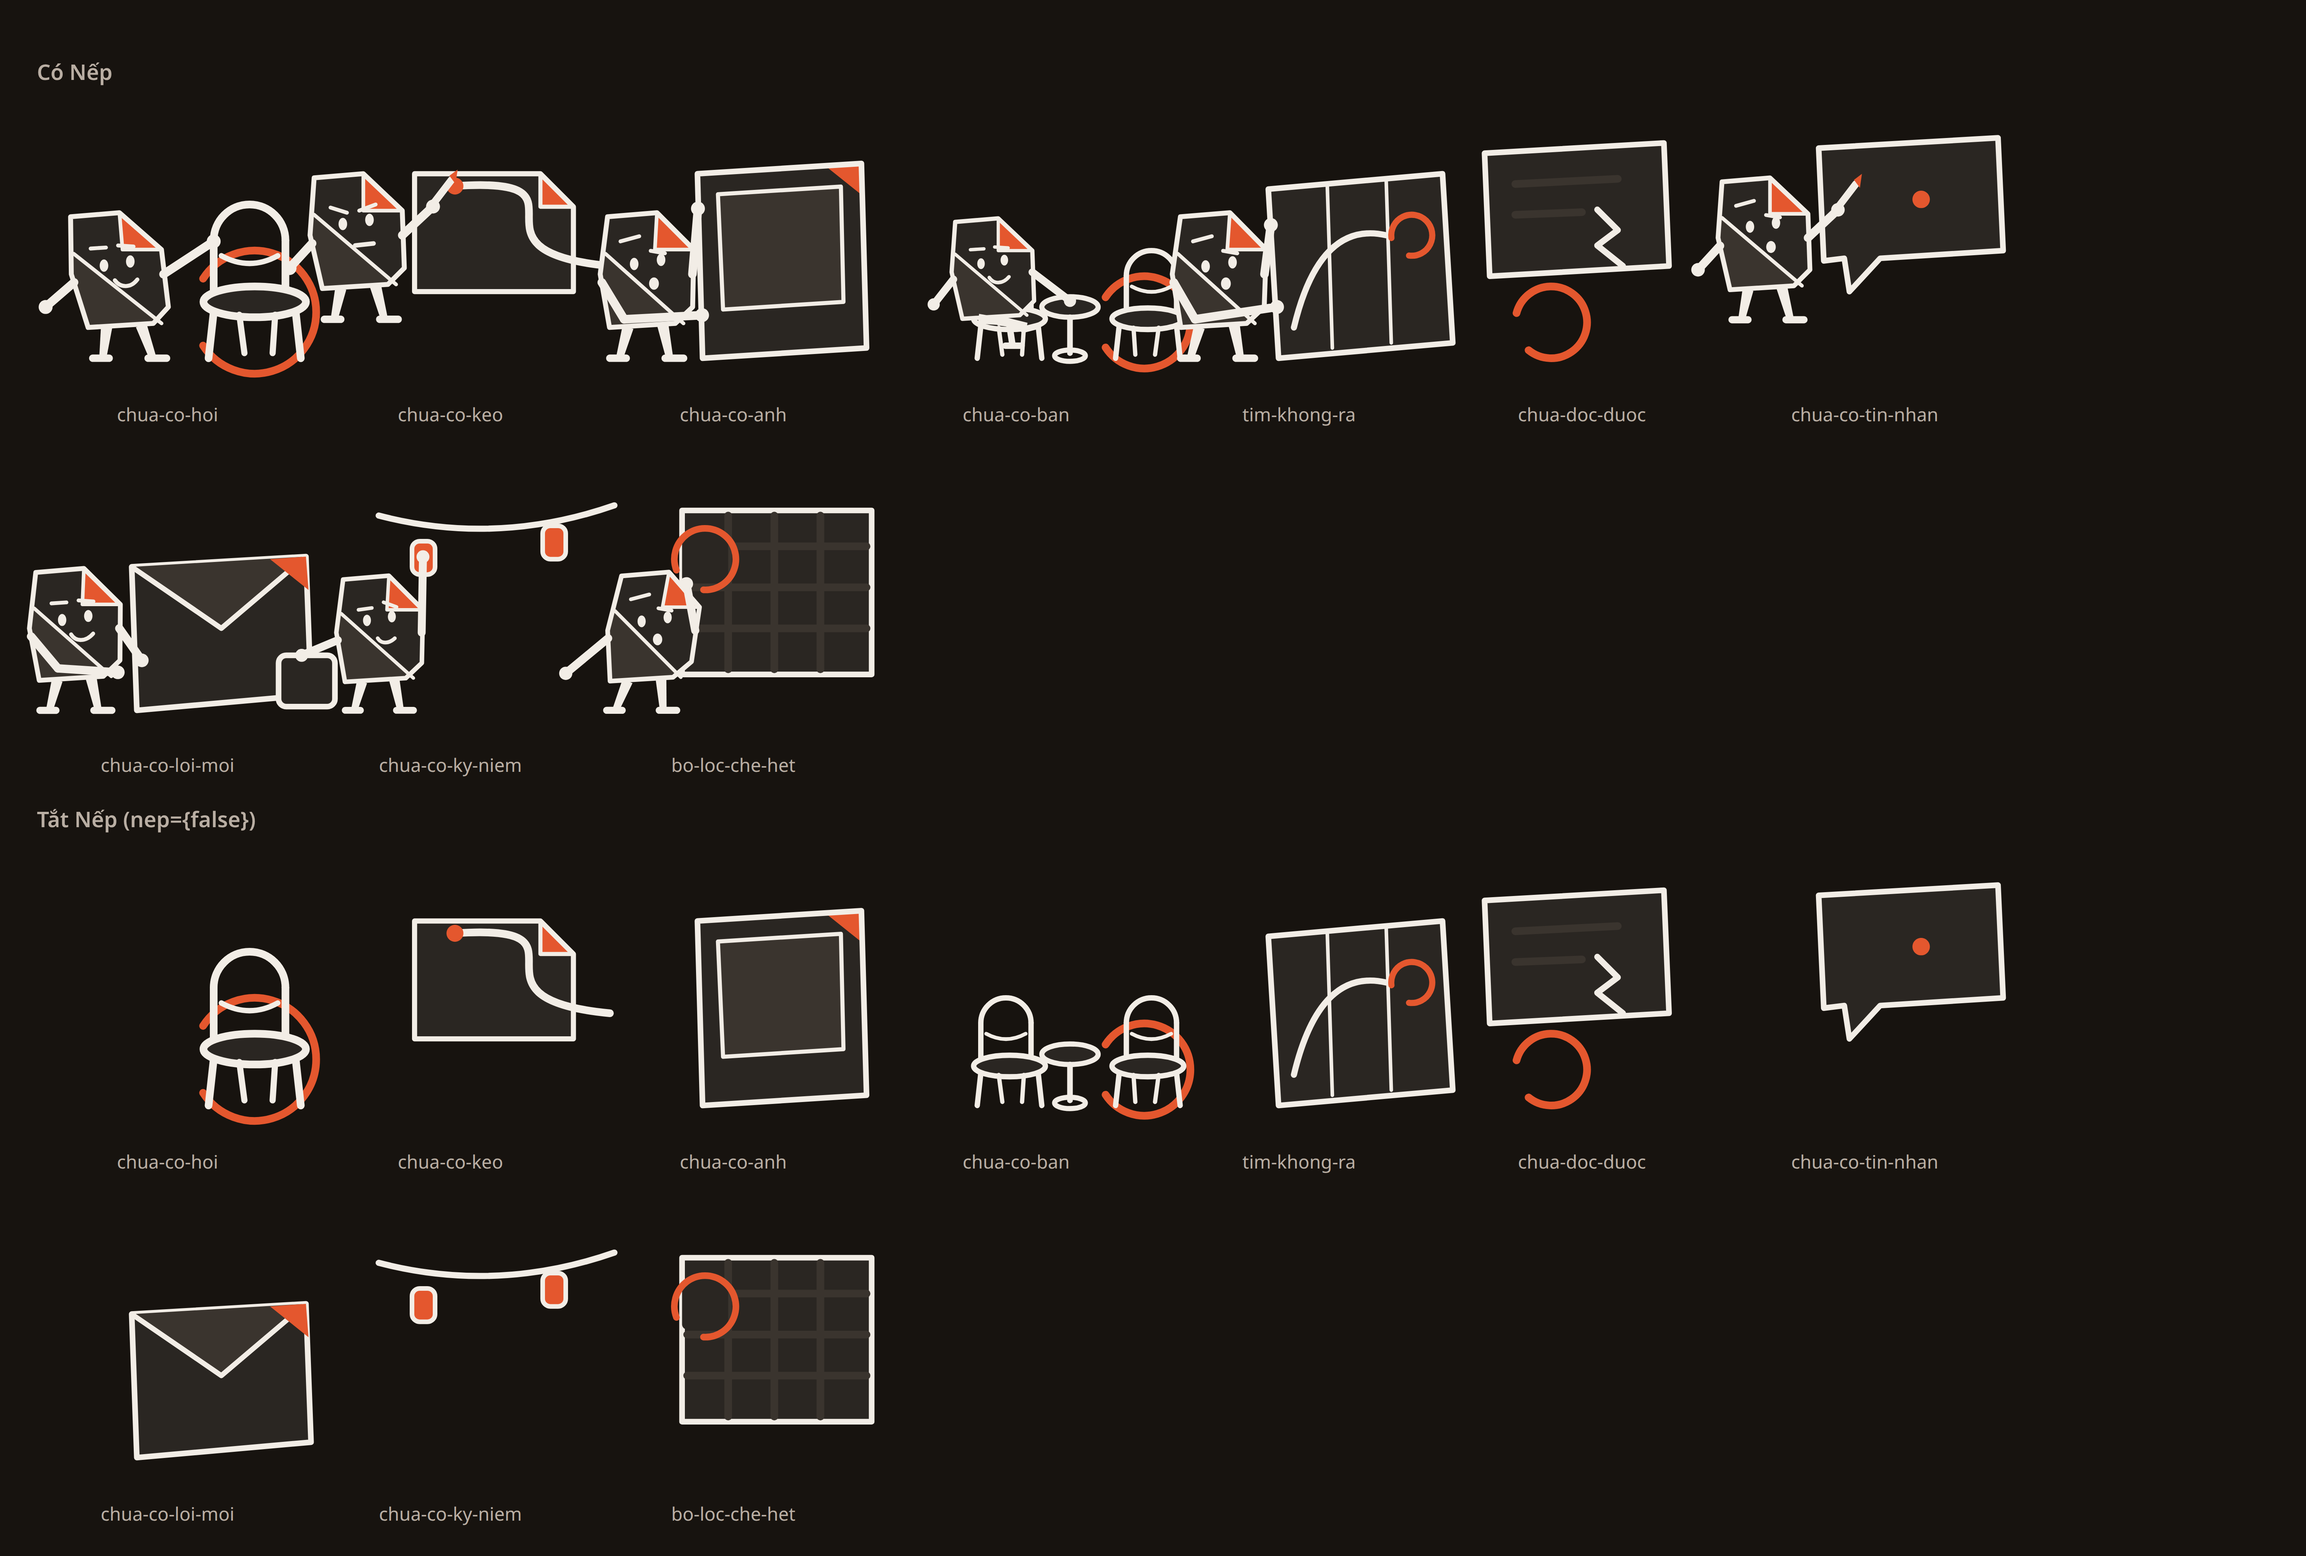
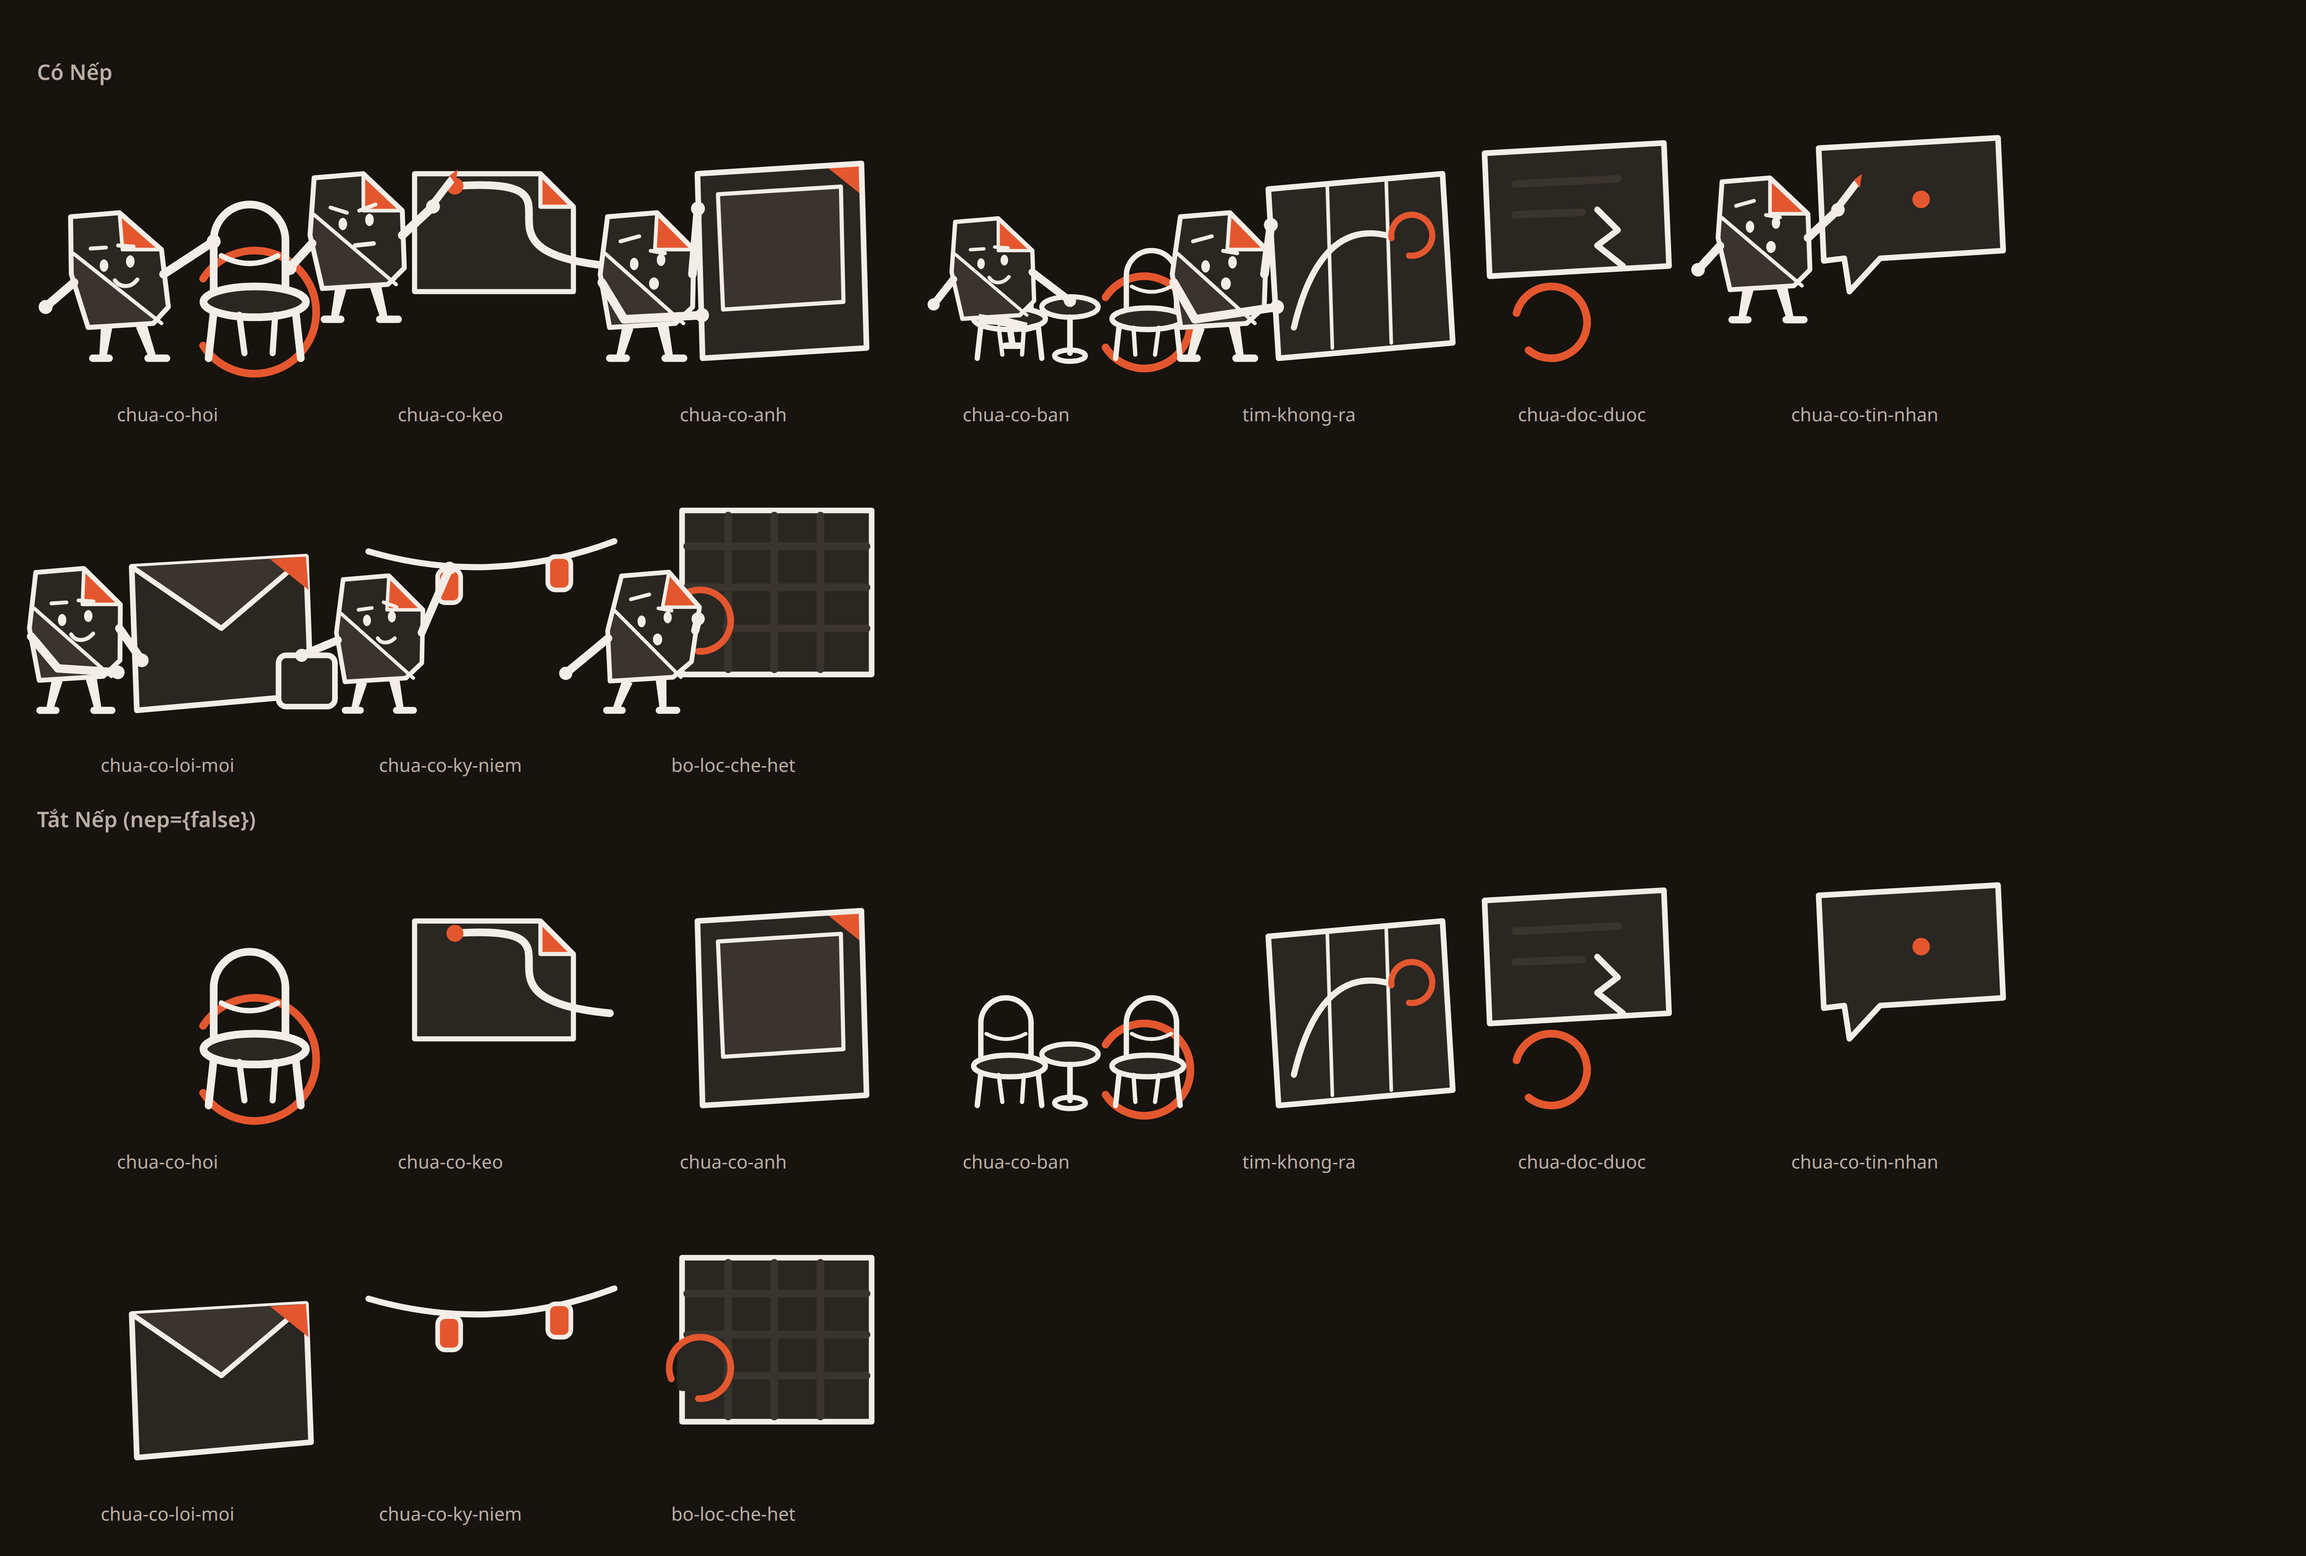
fix(art): hai cánh tay tôi vừa dời lại đè lên góc gấp coral
Lượt chấm xác nhận bốn mục đã đóng, và bắt một hồi quy do CHÍNH lần sửa trước
gây ra: dời tay của `ghe-nhin` lên ô (72, 26) làm chi mực chạy xuyên tam giác
gấp đã trượt (x 59,7–78,7 · y 20–38), tức đúng thứ vừa gỡ khỏi mày `hoi`, đến
bằng đường khác. Tay giơ của `voi-len` lên ô (72, 10) cũng chạy dọc cạnh phải
tam giác ấy.

- `ghe-nhin` chống vào ô (78, 44), DƯỚI y 38. Ô hở của lưới đi theo về scene
  (58,3 · 66,3), nên điểm chống và cái lỗ vẫn là một chỗ — và nay nó ở **ngang
  tầm mắt** thay vì cao hơn đầu 20 đơn vị, nên «nhìn qua» là thứ hình vẽ được
  chứ không chỉ là tên gọi.
- `voi-len` với lên ô (86, 16), ra NGOÀI cạnh phải tam giác. Dây phơi và chiếc
  kẹp coral hạ theo về scene (71,6 · 46,5).

Ghi nợ, cố ý không sửa lượt này: **năm khuôn mặt còn lại** (`binh-than`,
`hao-hung`, `quyet`, `met`, `nhuong`) đều kết thúc mày phải bên trong tam giác
gấp. Đổi chúng là đổi hình của mọi pose và mọi cảnh đang có, ở cuối một lượt
đã dài, và hình gốc của Nếp được team duyệt với đúng hình học ấy. Toạ độ ghi
trong doc để lượt sau sửa một lần cho cả bộ.

Claude-Session: https://claude.ai/code/session_01DJdoQAd87ifucv4yVwLGiU

Changed region(s): [[0.1558, 0.8093, 0.3117, 0.9027], [0.1558, 0.3113, 0.2493, 0.4046], [0.2805, 0.3424, 0.3428, 0.4046]]

diff --git a/apps/mobile/src/rudi/art/canh.ts b/apps/mobile/src/rudi/art/canh.ts
@@ -160,16 +160,16 @@ const NEN: Record<CanhId, () => LopVe[]> = {
   // print is not on the line -- it is still in a hand below, which is what the
   // screen reader is told too.
   "chua-co-ky-niem": () => [
-    { d: qCong([44, 26], [90, 38], [136, 22]), mau: "muc", net: 2.4 },
+    { d: qCong([40, 40], [88, 54], [136, 36]), mau: "muc", net: 2.4 },
     // Two clips, both empty: one clip alone reads as a peg, two read as a line
     // that photographs belong on and none of them are here yet.
-    // The coral clip sits where the raised hand reaches (box (72, 10) of a
-    // figure at x0 8, scale 0.74 → scene (61.3, 42.1)); the second one is
+    // The coral clip sits where the raised hand reaches (box (86, 16) of a
+    // figure at x0 8, scale 0.74 → scene (71.6, 46.5)); the second one is
     // further along the line, so the line reads as a line and not a peg.
-    { d: khungBo(57, 36, 9, 13, 3), mau: "gap" },
-    { d: khungBo(57, 36, 9, 13, 3), mau: "muc", net: 1.8 },
-    { d: khungBo(108, 30, 9, 13, 3), mau: "gap" },
-    { d: khungBo(108, 30, 9, 13, 3), mau: "muc", net: 1.8 },
+    { d: khungBo(67, 47, 9, 13, 3), mau: "gap" },
+    { d: khungBo(67, 47, 9, 13, 3), mau: "muc", net: 1.8 },
+    { d: khungBo(110, 42, 9, 13, 3), mau: "gap" },
+    { d: khungBo(110, 42, 9, 13, 3), mau: "muc", net: 1.8 },
   ],
   // The filter hides everything: a mesh drawn across, with one gap left.
   "bo-loc-che-het": () => {
@@ -185,8 +185,8 @@ const NEN: Record<CanhId, () => LopVe[]> = {
       // x0 -1, scale 0.76 → scene (53.7, 43.3). Out at x 97 it was across the
       // panel from the head and the pose read as standing beside a screen
       // (finish review 09/09).
-      { d: khungBo(52, 34, 18, 18, 2), mau: "giay" },
-      ...vongHo(61, 43, 12, { moTai: Math.PI * 0.7, net: 2.6 }),
+      { d: khungBo(50, 58, 18, 18, 2), mau: "giay" },
+      ...vongHo(59, 67, 12, { moTai: Math.PI * 0.7, net: 2.6 }),
     ];
   },
 };
@@ -241,10 +241,11 @@ const NEP: Record<CanhId, () => LopVe[]> = {
       ...nepTrenSan("voi-len", 8, 0.74),
     ];
   },
-  // Leaning in at the one open square: the far hand at box (72, 26) → scene
-  // (53.7, 43.3), which IS the square, so the brace point and the hole are the
-  // same place. A body bent sideways with the other arm down, not the
-  // two-handed grip `tim-khong-ra` already uses.
+  // Leaning in at the one open square: the far hand at box (78, 44) → scene
+  // (58.3, 66.3), which IS the square, so the brace point and the hole are the
+  // same place -- and it sits at eye height rather than above the head, so the
+  // figure is looking through it. A body bent sideways with the other arm
+  // down, not the two-handed grip `tim-khong-ra` already uses.
   "bo-loc-che-het": () => nepTrenSan("ghe-nhin", -1, 0.76),
 };
 

diff --git a/apps/mobile/src/rudi/art/nep.ts b/apps/mobile/src/rudi/art/nep.ts
@@ -495,17 +495,21 @@ export function hinhNep(pose: string, tuyChon: TuyChonNep = {}): LopVe[] {
       break;
     }
     case "voi-len":
-      // One arm straight up to a line overhead at box (72, 10); the other
-      // holds what is about to go on it, out to the side at box (8, 62), which
-      // is the coordinate the scene hangs the print from.
-      tuThe = [...tay(R, P(72, 10)), ...tay(L, P(8, 62))];
+      // One arm up and OUT to a line overhead at box (86, 16); the other holds
+      // what is about to go on it, out to the side at box (8, 62), which is
+      // the coordinate the scene hangs the print from. Out, not straight up:
+      // a vertical reach from that shoulder runs along the fold triangle's
+      // right edge and darkens the coral corner.
+      tuThe = [...tay(R, P(86, 16)), ...tay(L, P(8, 62))];
       break;
     case "ghe-nhin":
-      // Leaning in to look through a gap: the far hand braces at box (72, 26),
-      // which is where the scene puts the one open square, and the near arm
-      // hangs DOWN. Held out straight it made a T, and a T reads as a shrug
-      // however far the body leans.
-      tuThe = [...tay(R, P(72, 26)), ...tay(L, P(10, 72))];
+      // Leaning in to look through a gap: the far hand braces at box (78, 44),
+      // where the scene puts the one open square, and the near arm hangs DOWN.
+      // Held out straight it made a T, and a T reads as a shrug however far
+      // the body leans. The brace point is BELOW y 38 on purpose: a limb run
+      // up to the shoulder's own height crosses the sheared fold triangle and
+      // puts a dark bar across the coral corner, which is the identity mark.
+      tuThe = [...tay(R, P(78, 44)), ...tay(L, P(10, 72))];
       break;
     case "vui":
     default: {

diff --git a/docs/claude/2026-09-09/tra-loi-canh-moi-im-lang.md b/docs/claude/2026-09-09/tra-loi-canh-moi-im-lang.md
@@ -91,6 +91,18 @@ với cái đầu; tấm ảnh trong tay thấp thành mảng trắng **sau ốn
 | `art-duong` | mười cảnh, có và không Nếp, trong khung 144×112 |
 | repo guard | pass, hai bảng ảnh ghim sha256 |
 
+## Nợ ghi nhận, không sửa lượt này
+
+**Chi mực đi qua góc gấp coral.** Góc gấp là dấu nhận diện của Nếp, và một nét mực đè lên nó là mất
+dấu. Lượt này sửa hai chỗ **tôi vừa gây ra** (tay của `ghe-nhin` và `voi-len`) và một chỗ cũ (mày
+`hoi`). Nhưng **năm khuôn mặt còn lại** — `binh-than`, `hao-hung`, `quyet`, `met`, `nhuong` — đều
+kết thúc mày phải trong dải x ≥ 50, y < 38, tức bên trong tam giác gấp H(50,20)·G(69,38)·Bp(50,38).
+Thấy rõ nhất ở `chua-co-ky-niem` (mặt `binh-than`).
+
+Không sửa lượt này **có chủ ý**: đổi năm khuôn mặt là đổi hình của **mọi** pose và **mọi** cảnh đang
+có, ở cuối một lượt đã dài; và hình gốc của Nếp đã được team duyệt với đúng hình học ấy. Ghi ra đây
+kèm toạ độ để lượt sau sửa một lần cho cả bộ, chứ không phải để quên.
+
 ## Chưa chứng minh
 
 - **Chưa chụp native.** Máy ảo do lane khác lái suốt lượt này. Ảnh trên là bảng vector dựng qua
